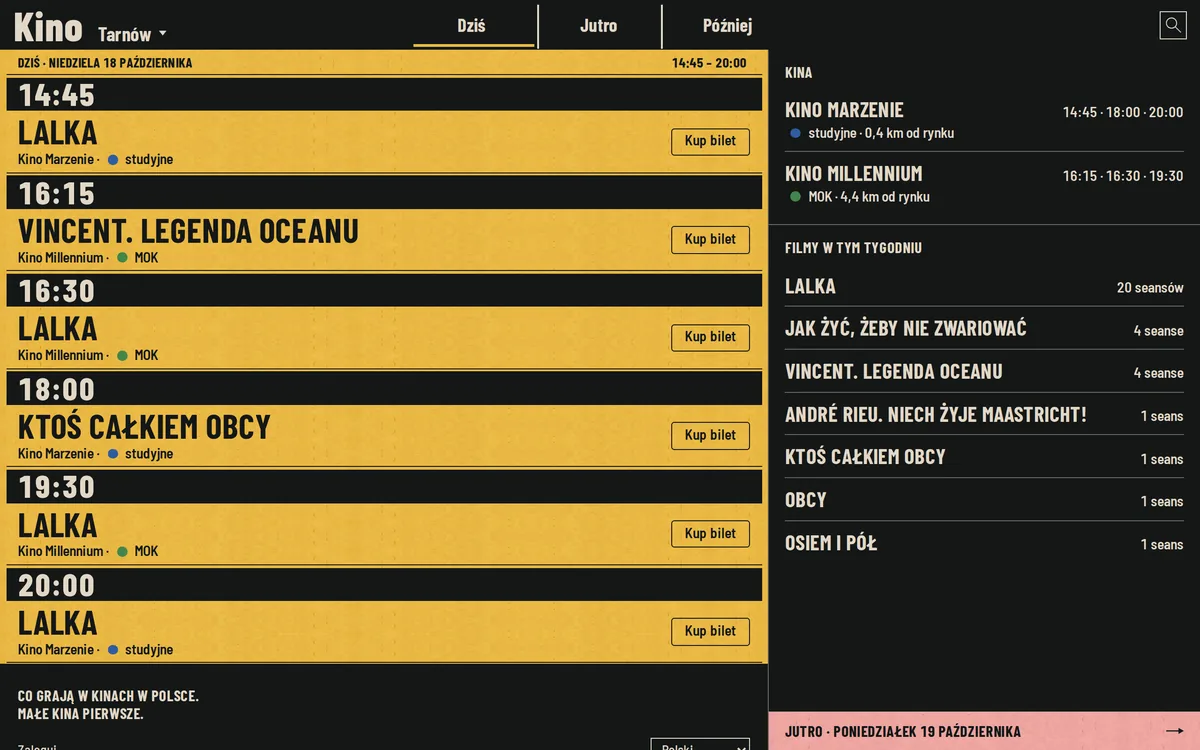
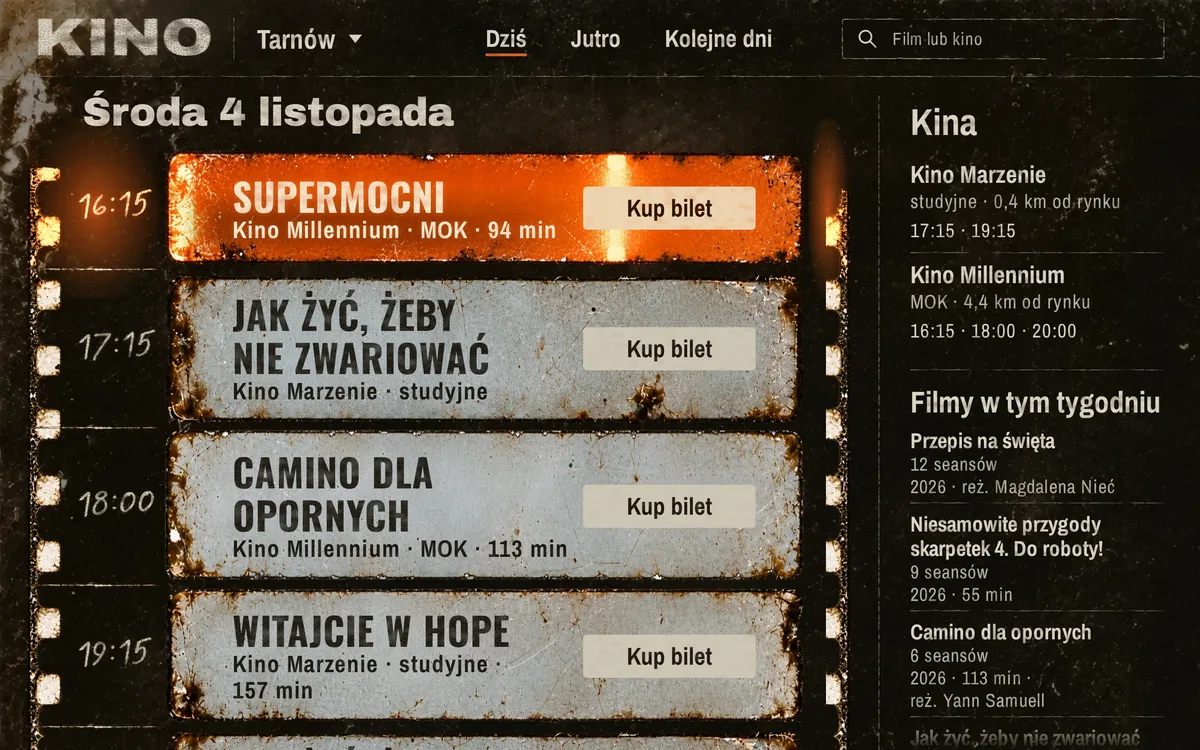
chore(web): kino.net.pl re-shot in its new design
Its home is now the A-Z of towns, so the capture is Tarnów's page. The browser
clock is set to 16:00, since Kino lights the next screening and has nothing to
light once the night's are over.

diff --git a/apps/web/geometrize/11403b0b69a1431695b4abf72cde382e0a6203c8.js b/apps/web/geometrize/11403b0b69a1431695b4abf72cde382e0a6203c8.js
@@ -1,0 +1,1 @@
+export default {"v":2,"w":1200,"h":750,"fw":128,"fh":80,"bg":"#54473a","a":0.502,"s":"p74,8,12,75,85,75,d0cbbe;p127,36,127,0,18,0,000000;p93,16,18,19,18,64,ca8c62;p127,79,127,0,77,79,000000;p18,79,0,79,17,0,000000;p59,14,4,19,67,31,da4c00;p84,2,86,64,125,0,0d0a00;p21,71,19,31,89,30,7c9298;p0,26,21,27,0,79,1e1506;p83,32,85,43,49,35,cbc1ad;p39,10,4,6,89,5,000000;p87,51,62,61,41,47,c9ceca;p75,15,66,29,93,24,e96413;p117,48,90,6,111,18,3a372d;p3,0,0,5,24,5,a69a7f;p41,61,33,63,105,61,010000;p78,64,35,75,86,75,c3c4b9;p71,28,14,28,52,29,000000;p97,34,92,79,90,8,000000;p45,16,58,4,103,16,160c00;p0,42,22,46,20,35,140a00;p84,45,87,42,52,45,000000;p21,72,4,70,20,79,0c0000;p116,45,131,55,121,78,000000;p73,18,18,24,20,20,ff974d;p53,35,25,30,29,76,6a7171;p89,22,89,51,87,23,9e7d57;p78,22,62,26,63,14,fecc8e;p6,73,4,76,4,51,b9aa93;p96,64,117,55,99,54,515147;p4,63,0,40,0,76,090500;p9,72,15,65,-2,70,090600;p71,79,83,79,22,79,e0e1d5;p0,12,0,22,31,14,341500;p27,16,28,0,18,8,0b0a01;p17,61,28,62,0,64,000000;p6,17,16,21,2,34,9e5420;p32,17,60,24,63,16,e74000;p8,13,8,10,18,12,989382;p112,44,69,27,127,32,181309;p5,57,16,64,17,33,0b0a03;p70,16,90,12,7,15,170e02;p48,57,84,50,38,52,bdbfbb;p5,33,3,59,5,18,a09073;p21,34,41,41,20,41,989d99;p27,48,23,63,18,49,b8bbb7;p78,59,83,39,84,58,c3b7a4;p16,49,3,33,20,29,171107;p87,70,127,73,79,86,18150d;p126,34,140,50,111,36,020200;p5,48,0,22,0,79,20190c;p89,59,30,60,76,58,a7aaa5;p97,42,110,42,119,43,9a998d;p112,19,103,19,97,17,706b5e;p87,46,108,58,80,45,0f0c04;p117,51,127,39,127,79,090903;p86,28,84,49,86,56,090000;p0,45,3,49,7,44,746959;p6,7,7,12,28,5,100b00;p28,26,46,29,0,29,290700"};

diff --git a/apps/web/scripts/capture.py b/apps/web/scripts/capture.py
@@ -5,6 +5,7 @@ Windows: 1280x800 at DPR 2, the live window's desktop width, scaled to 1200x750.
 Phone: 390x844 at DPR 2, kept at 780x1688 (<id>-phone.webp).
 Pages: whole pages for sites that cannot be framed, scrolled through in the
 window instead (windows/<id>-page.webp at 1280 wide, <id>-page-phone.webp at 780).
+Clock: a site whose look follows the time of day is shot at a set local hour.
 Each file gets a .webp.json provenance note, as DESIGN.md asks.
 """
 import io, json, re, sys
@@ -28,7 +29,8 @@ SITES = {
 WINDOWS = {
     'szkolyjogi': 'https://szkolyjogi.pl',
     'thebest': 'https://thebest.travel',
-    'kino': 'https://kino.net.pl',
+    # Its home is now the A-Z of towns; a town's page is the product.
+    'kino': 'https://kino.net.pl/tarnow',
     'kompi': 'https://kompi.pl',
     'festivals': 'https://festivals.zaur.app',
     'mail-demo': 'https://demo.zaur.app',
@@ -39,13 +41,17 @@ PAGES = {'fixtar': 'https://fixtar.pl'}
 FRAMES = {
     'szkolyjogi': ['https://szkolyjogi.pl/en/krakow/yoga-shala-krakow', 'https://szkolyjogi.pl/en/krakow/dzisiaj', 'https://szkolyjogi.pl/en/krakow'],
 }
+# Kino lights the next screening you can still catch, and shows nothing once the night's are over.
+CLOCK = {'kino': 16}
 CONSENT = re.compile(r'^\s*(akceptuj|zaakceptuj|zgadzam|accept|allow all|ok|rozumiem)', re.I)
 CAP = 6000  # tallest page kept, in CSS px
 HIDE = '::-webkit-scrollbar{display:none} html{scrollbar-width:none}'
 
-def shoot(browser, url, w, h, full=False):
+def shoot(browser, url, w, h, full=False, hour=None):
     page = browser.new_page(viewport={'width': w, 'height': h}, device_scale_factor=2,
                             is_mobile=w < 500, has_touch=w < 500, bypass_csp=True)
+    if hour is not None:
+        page.clock.install(time=datetime.now().replace(hour=hour, minute=0, second=0, microsecond=0))
     page.goto(url, wait_until='load', timeout=60000)
     page.add_style_tag(content=HIDE)
     for b in page.get_by_role('button').all():
@@ -75,17 +81,19 @@ def page_shot(img, w):
 
 ids = sys.argv[1:] or [*SITES, *WINDOWS]
 day = datetime.now().date().isoformat()
-desk = lambda url, w, h: f'{url} screenshotted with Playwright Chromium at {w}x{h}, DPR 2, scrollbars hidden, consent banner dismissed, on {day}; scaled to 1200x750 webp.'
+desk = lambda url, w, h, clock='': f'{url} screenshotted with Playwright Chromium at {w}x{h}, DPR 2, scrollbars hidden, consent banner dismissed, on {day}{clock}; scaled to 1200x750 webp.'
 with sync_playwright() as p:
     browser = p.chromium.launch()
     for id in ids:
         url = SITES.get(id) or WINDOWS[id]
+        hour = CLOCK.get(id)
+        clock = f', browser clock set to {hour}:00 that day' if hour is not None else ''
         if id in WINDOWS:
-            save(shoot(browser, url, 1280, 800).resize((1200, 750), Image.LANCZOS), id, desk(url, 1280, 800), 'windows')
+            save(shoot(browser, url, 1280, 800, hour=hour).resize((1200, 750), Image.LANCZOS), id, desk(url, 1280, 800, clock), 'windows')
         for n, u in enumerate(FRAMES.get(id) or ([url] if id in SITES else []), 1):
             save(shoot(browser, u, 1440, 900).resize((1200, 750), Image.LANCZOS), f'{id}-{n}', desk(u, 1440, 900))
-        save(shoot(browser, url, 390, 844), f'{id}-phone',
-             f'{url} screenshotted with Playwright Chromium at a 390x844 phone viewport, DPR 2, scrollbars hidden, consent banner dismissed, on {day}; kept at 780x1688 webp.')
+        save(shoot(browser, url, 390, 844, hour=hour), f'{id}-phone',
+             f'{url} screenshotted with Playwright Chromium at a 390x844 phone viewport, DPR 2, scrollbars hidden, consent banner dismissed, on {day}{clock}; kept at 780x1688 webp.')
         if id in PAGES:
             note = lambda w: f'{url} whole page screenshotted with Playwright Chromium at {w} wide, DPR 2, lazy images scrolled in, scrollbars hidden, consent banner dismissed, cut at {CAP}px tall, on {day}'
             save(page_shot(shoot(browser, url, 1280, 800, True), 1280), f'{id}-page', note(1280) + '; scaled to 1280 wide webp.', 'windows')
